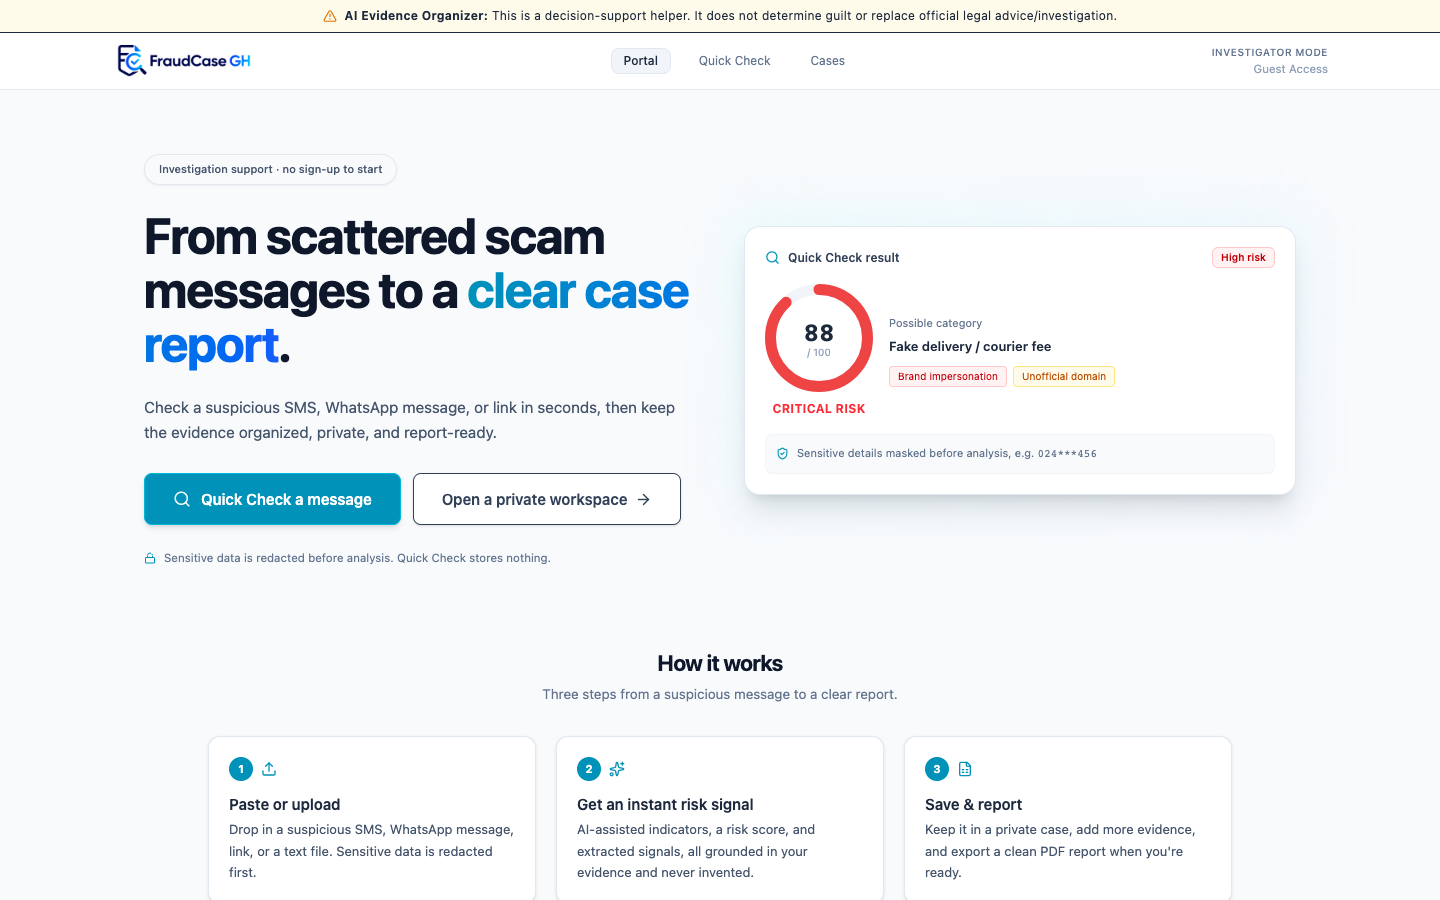
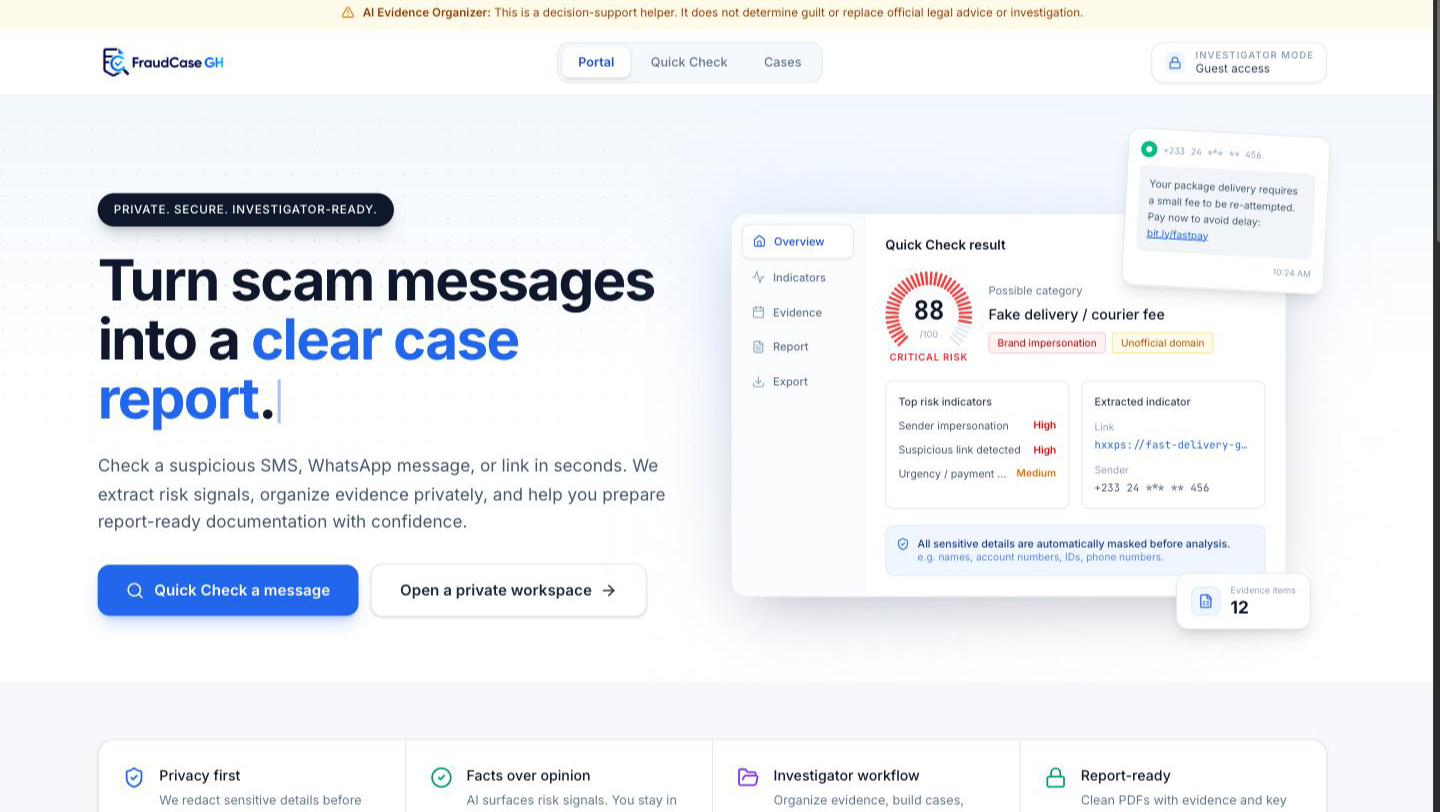
docs: refresh the landing screenshot and show it in the README (#71)
* docs: refresh the landing screenshot to the current redesigned page

The committed screenshot was from 2026-06-21 and showed the pre-redesign
landing page: old hero, old flat risk gauge, "How it works" as the second
section. The redesign (#62) replaced all of that, so the image no longer
matched the app. This is the only consumer-facing copy of it; nothing in this
repo's own README references the file, but the GitHub profile README at
MrrAmissah/MrrAmissah pulls it from raw.githubusercontent on main.

Captured from the live Vercel deployment, signed out, at a 1440 viewport:
rotating hero headline on its first message, the segmented radial risk dial,
the Quick Check result mockup with the floating SMS bubble and evidence-count
card, and the top of the trust strip.

Two notes on how it was produced. The hero headline types its message and
pauses while `document.hidden` is true, so a capture from a background tab
renders a blank headline; the tab has to be foregrounded, and the same
pause-on-hidden behavior is then a convenient way to freeze the animation on a
complete phrase. Dimensions are 1440x812 rather than the previous 1440x900
because the display caps the window height, so the viewport cannot reach 900.
The profile README renders this at width="100%", so only the card's aspect
ratio changes slightly.

* docs: show the landing screenshot in the project README

The image was only ever consumed by the external profile README; the project's
[…]

diff --git a/README.md b/README.md
@@ -12,6 +12,10 @@ FraudCase GH turns a confusing pile of suspicious SMS, WhatsApp messages, links,
 
 > **Positioning:** FraudCase GH is a decision-support and evidence-organization tool, **not** a law-enforcement system and **not** a verdict on any person.
 
+<div align="center">
+  <img src="docs/screenshots/landing.png" alt="FraudCase GH landing page: hero headline, a Quick Check result panel showing a segmented risk dial scoring 88 as critical risk with masked sender details, and the privacy trust strip below" width="100%" />
+</div>
+
 ---
 
 ## Table of contents
